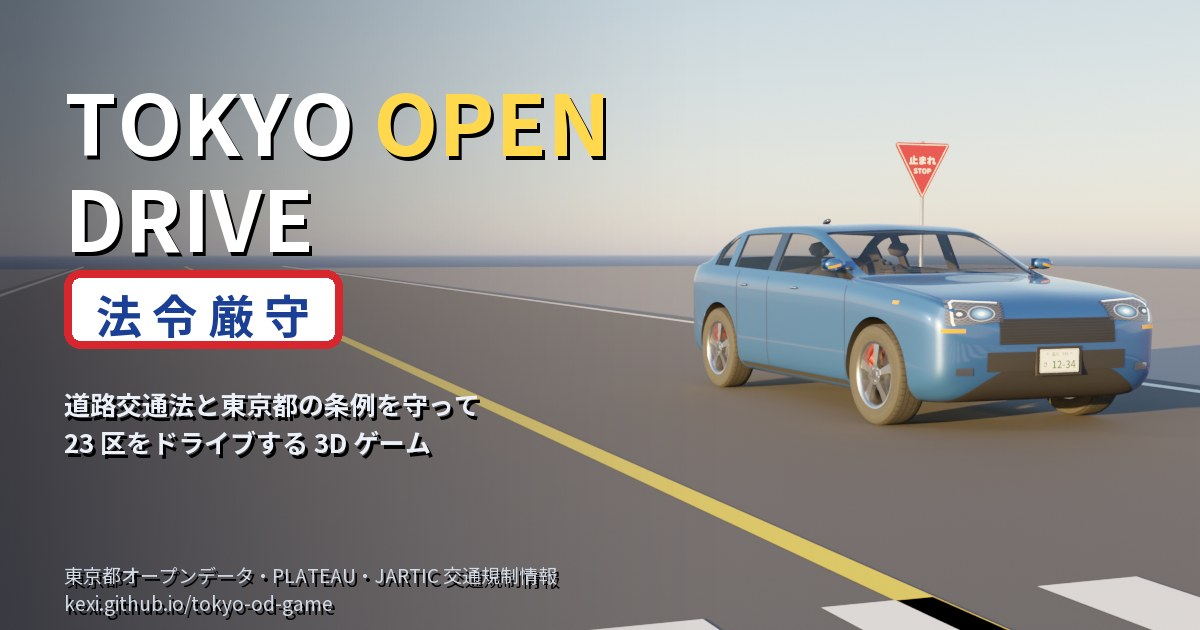
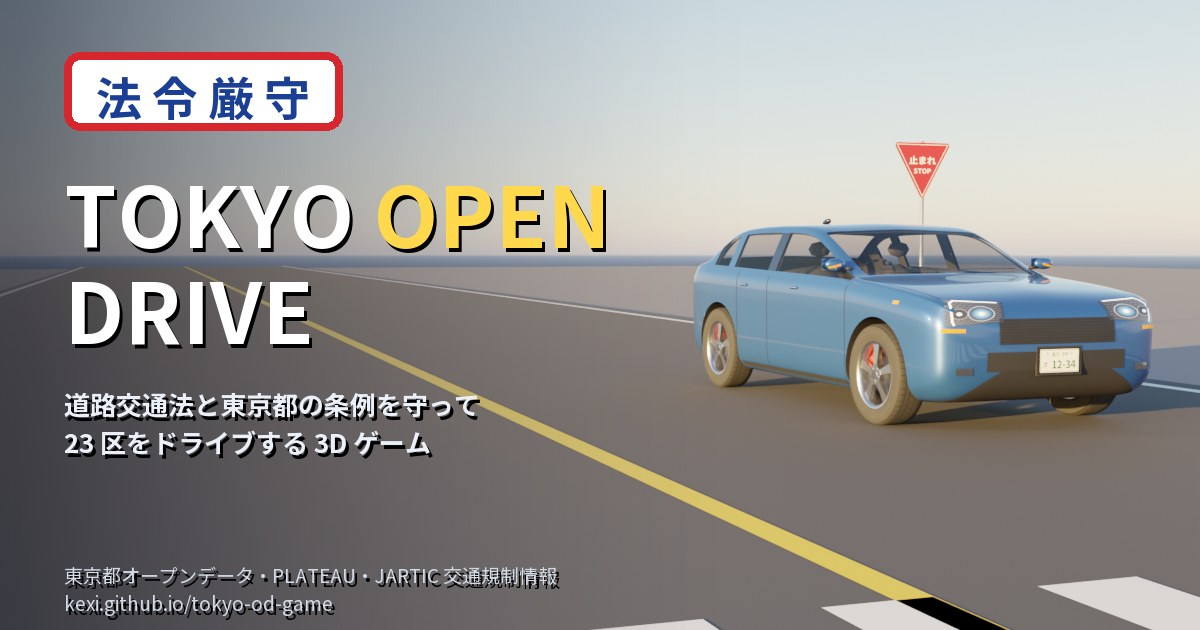
feat: タイトルを「法令厳守 TOKYO OPEN DRIVE」にする
「法令厳守」を題字の先頭に置き、主題が最初に目に入るようにする。
題字・タブ名・OGP/X のタイトル・共有カード画像をそろえる。

Changed region(s): [[0.0308, 0.0603, 0.5242, 0.573]]

diff --git a/index.html b/index.html
@@ -8,12 +8,12 @@
       name="description"
       content="東京都のオープンデータと PLATEAU 3D 都市モデルで 23 区を、道路交通法と東京都の条例を守って走る 3D ドライブ探索ゲーム"
     />
-    <title>TOKYO OPEN DRIVE 法令厳守</title>
+    <title>法令厳守 TOKYO OPEN DRIVE</title>
     <link rel="canonical" href="https://kexi.github.io/tokyo-od-game/" />
     <!-- Open Graph / X (Twitter) card. Absolute URLs: crawlers do not resolve relative ones. -->
     <meta property="og:type" content="website" />
-    <meta property="og:site_name" content="TOKYO OPEN DRIVE 法令厳守" />
-    <meta property="og:title" content="TOKYO OPEN DRIVE 法令厳守" />
+    <meta property="og:site_name" content="法令厳守 TOKYO OPEN DRIVE" />
+    <meta property="og:title" content="法令厳守 TOKYO OPEN DRIVE" />
     <meta
       property="og:description"
       content="東京都のオープンデータと PLATEAU 3D 都市モデルで 23 区を、道路交通法と東京都の条例を守って走る 3D ドライブ探索ゲーム。標識・信号・規制速度は JARTIC 交通規制情報に基づきます。"
@@ -25,11 +25,11 @@
     <meta property="og:image:height" content="630" />
     <meta
       property="og:image:alt"
-      content="夕方の道路を走る青い車と「止まれ」の標識。TOKYO OPEN DRIVE 法令厳守 の題字。"
+      content="夕方の道路を走る青い車と「止まれ」の標識。法令厳守 TOKYO OPEN DRIVE の題字。"
     />
     <meta property="og:locale" content="ja_JP" />
     <meta name="twitter:card" content="summary_large_image" />
-    <meta name="twitter:title" content="TOKYO OPEN DRIVE 法令厳守" />
+    <meta name="twitter:title" content="法令厳守 TOKYO OPEN DRIVE" />
     <meta
       name="twitter:description"
       content="東京都のオープンデータと PLATEAU 3D 都市モデルで 23 区を、道路交通法と東京都の条例を守って走る 3D ドライブ探索ゲーム。標識・信号・規制速度は JARTIC 交通規制情報に基づきます。"
@@ -37,7 +37,7 @@
     <meta name="twitter:image" content="https://kexi.github.io/tokyo-od-game/og.jpg" />
     <meta
       name="twitter:image:alt"
-      content="夕方の道路を走る青い車と「止まれ」の標識。TOKYO OPEN DRIVE 法令厳守 の題字。"
+      content="夕方の道路を走る青い車と「止まれ」の標識。法令厳守 TOKYO OPEN DRIVE の題字。"
     />
     <link rel="stylesheet" href="./src/style.css" />
   </head>
@@ -48,7 +48,7 @@
 
     <section id="loading" aria-live="polite">
       <div class="loading-card">
-        <h1>TOKYO <span>OPEN</span> DRIVE <em class="compliance">法令厳守</em></h1>
+        <h1><em class="compliance">法令厳守</em> TOKYO <span>OPEN</span> DRIVE</h1>
         <p class="tagline">東京都オープンデータ × PLATEAU 3D 都市モデルで 23 区を走る</p>
         <p id="loading-status">データを読み込み中…</p>
         <div class="bar"><div id="loading-bar"></div></div>

diff --git a/src/style.css b/src/style.css
@@ -76,11 +76,11 @@ body {
   color: var(--accent);
 }
 
-/* Second line of the title, styled after a 規制標識: white plate, red border, blue lettering. */
+/* Lead of the title, styled after a 規制標識: white plate, red border, blue lettering. */
 .loading-card h1 .compliance {
   display: block;
   width: fit-content;
-  margin: 10px auto 0;
+  margin: 0 auto 12px;
   padding: 4px 18px;
   font-style: normal;
   font-size: 0.42em;
@@ -1114,7 +1114,7 @@ pre.notice {
     margin-bottom: 4px;
   }
   .loading-card h1 .compliance {
-    margin-top: 4px;
+    margin-bottom: 4px;
     border-width: 3px;
   }
   .tagline,

diff --git a/scripts/textures/og_image.py b/scripts/textures/og_image.py
@@ -45,25 +45,25 @@ def main() -> None:
     card = Image.composite(Image.new("RGB", (W, H), (8, 14, 28)), card, shade)
 
     draw = ImageDraw.Draw(card)
-    title = get_noto_font(84, bold=True)
-    x, y = 64, 58
 
     def shadowed(pos, text, font, fill):
         draw.text((pos[0] + 3, pos[1] + 4), text, font=font, fill=(0, 0, 0))
         draw.text(pos, text, font=font, fill=fill)
 
+    # 法令厳守 plate leads the title.
+    badge = get_noto_font(46, bold=True)
+    text = "法 令 厳 守"
+    tw = draw.textlength(text, font=badge)
+    bx, by = 64, 52
+    draw.rounded_rectangle([bx, by, bx + tw + 64, by + 78], radius=16, fill=(255, 255, 255), outline=RED, width=8)
+    draw.text((bx + 32, by + 10), text, font=badge, fill=BLUE)
+
+    title = get_noto_font(84, bold=True)
+    x, y = 64, 150
     for word, colour in (("TOKYO ", (255, 255, 255)), ("OPEN ", YELLOW)):
         shadowed((x, y), word, title, colour)
         x += draw.textlength(word, font=title)
     shadowed((64, y + 96), "DRIVE", title, (255, 255, 255))
-
-    # 法令厳守 plate.
-    badge = get_noto_font(46, bold=True)
-    text = "法 令 厳 守"
-    tw = draw.textlength(text, font=badge)
-    bx, by = 64, 270
-    draw.rounded_rectangle([bx, by, bx + tw + 64, by + 78], radius=16, fill=(255, 255, 255), outline=RED, width=8)
-    draw.text((bx + 32, by + 10), text, font=badge, fill=BLUE)
 
     sub = get_noto_font(26, bold=True)
     shadowed((64, 384), "道路交通法と東京都の条例を守って", sub, (235, 240, 248))

diff --git a/README.md b/README.md
@@ -1,4 +1,4 @@
-# TOKYO OPEN DRIVE 法令厳守
+# 法令厳守 TOKYO OPEN DRIVE
 
 東京都オープンデータ × PLATEAU 3D 都市モデルで、東京 23 区を車で走り回る three.js 製の 3D ドライブ探索ゲームです。
 
